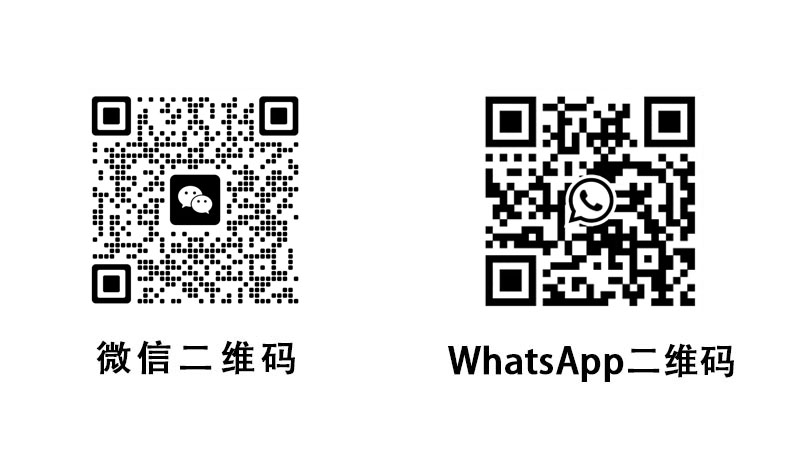
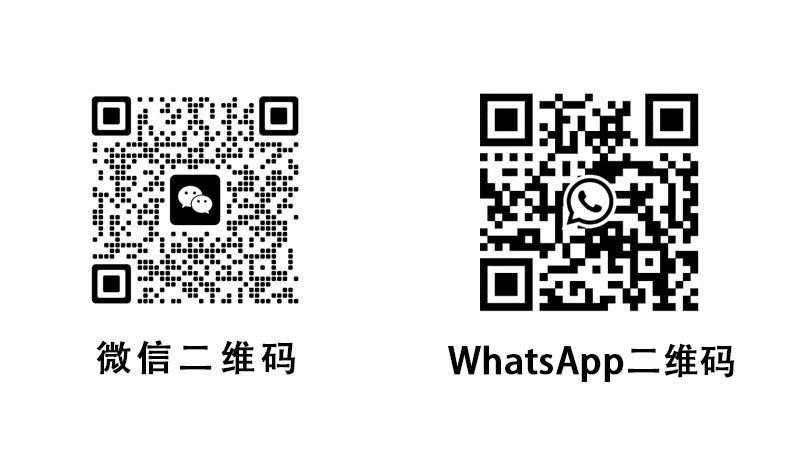
333

Changed region(s): [[0.6076, 0.1854, 0.9114, 0.7108]]

diff --git a/index.html b/index.html
@@ -351,7 +351,7 @@
                                             </div>
                                             <div class="pl_cont">
                                             <p><span style="color:#00a2ff;">@加拿大-林小惠</span> <span class="wuk_name">小刘</span>的微信号 <a href="javascript:void(0);" onclick="copyAndHandleWechat()" class="wechat-link">
-  <span id="wechat_id" class="wuk_weixin">Autrip666</span></a><span class="tishi"> [点击即可复制，转到微信加好友，免费咨询定制澳洲行程] </span>,WhatsApp号 <a href="https://wa.me/61493385079?text=我想了解澳洲的相关行程" target="_blank" class="whatsapp-link"><span class="wuk_weixin">+ 61 493 385 079</span></a></p>
+  <span id="wechat_id" class="wuk_weixin">Autrip666</span></a><span class="tishi"> [点击即可复制，转到微信加好友，免费咨询定制澳洲行程] </span>,WhatsApp号 <a href="https://wa.me/61493433626?text=我想了解澳洲的相关行程" target="_blank" class="whatsapp-link"><span class="wuk_weixin">+ 61 493 433 626</span></a></p>
                                             <img src="static/picture/wewhat.jpg">
                                             <p><a href="https://autraveling.com/contact/"><span style="font-weight:bold;color: red;">也可以直接点这里，在线联系，或者留言</span></a></p>
                                             </div>
@@ -507,7 +507,7 @@
                                             <div class="pl_cont">
                                                 <p><span style="color:#00a2ff;">@新加坡·阿飞</span>详细的澳大利亚旅游攻略，我建议还是联系向导<span class="wuk_name">小刘</span>，我也是找人家安排的，毕竟人家专业，能给到你详细的旅游规划和报价，这样来的比较直接一些。</p>
                                                 <p><span class="wuk_name">小刘</span>的微信号 <a href="javascript:void(0);" onclick="copyAndHandleWechat()" class="wechat-link">
-  <span id="wechat_id" class="wuk_weixin">Autrip666</span> </a><span class="tishi"> [点击即可复制，转到微信加好友，免费咨询定制澳洲行程] </span>,WhatsApp号 <a href="https://wa.me/61493385079?text=我想了解澳洲的相关行程" target="_blank" class="whatsapp-link"><span class="wuk_weixin">+ 61 493 385 079</span></a>
+  <span id="wechat_id" class="wuk_weixin">Autrip666</span> </a><span class="tishi"> [点击即可复制，转到微信加好友，免费咨询定制澳洲行程] </span>,WhatsApp号 <a href="https://wa.me/61493433626?text=我想了解澳洲的相关行程" target="_blank" class="whatsapp-link"><span class="wuk_weixin">+ 61 493 433 626</span></a>
                                             </div>
                                         </div>
                                     </div>
@@ -574,7 +574,7 @@
                                     <p>线路设计非常合理，爷爷一点感觉不到累，很符合中老年人出行，吃住方面都非常好。</p>
                                     <p>找个澳大利亚当地的负责人为你设计路线，真的是很接地气。</p>
                                     <p><span class="wuk_name">小刘</span>的微信号 <a href="javascript:void(0);" onclick="copyAndHandleWechat()" class="wechat-link">
-  <span id="wechat_id" class="wuk_weixin">Autrip666</span> </a><span class="tishi"> [点击即可复制，转到微信加好友，免费咨询定制澳洲行程] </span>,WhatsApp号 <a href="https://wa.me/61493385079?text=我想了解澳洲的相关行程" target="_blank" class="whatsapp-link"><span class="wuk_weixin">+ 61 493 385 079</span></a></p>
+  <span id="wechat_id" class="wuk_weixin">Autrip666</span> </a><span class="tishi"> [点击即可复制，转到微信加好友，免费咨询定制澳洲行程] </span>,WhatsApp号 <a href="https://wa.me/61493433626?text=我想了解澳洲的相关行程" target="_blank" class="whatsapp-link"><span class="wuk_weixin">+ 61 493 433 626</span></a></p>
                                 </div>
                                 <div class="copyright"></div>
                                 <div class="a-operate _js_operate clearfix">
